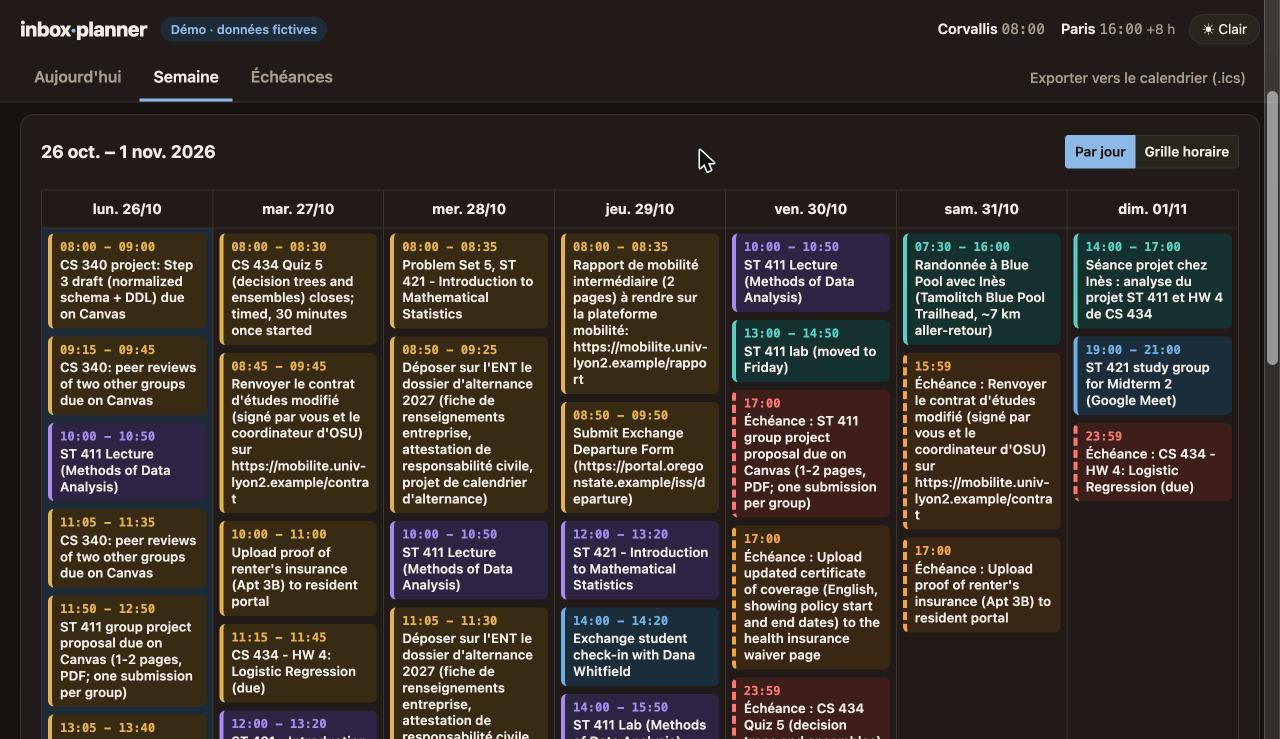
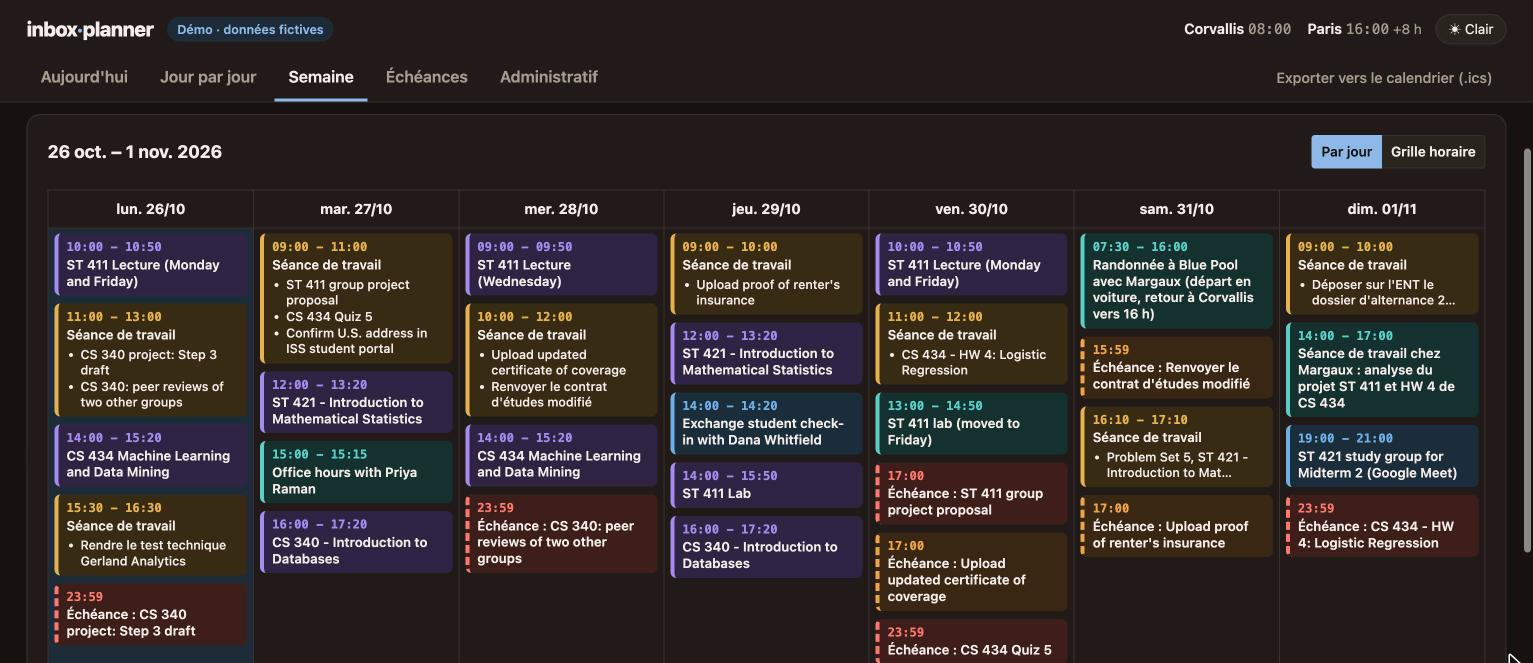
README: new screenshots (day by day, administrative tab) and demo GIF

diff --git a/README.md b/README.md
@@ -6,7 +6,7 @@
 ![Python 3.12](https://img.shields.io/badge/python-3.12-blue)
 ![Licence MIT](https://img.shields.io/badge/licence-MIT-green)
 
-![Démo : l'énergie du jour change le plan, la semaine se recalcule, une réponse est proposée puis relue](docs/images/demo.gif)
+![Démo : l'énergie du jour change le plan, la semaine se recalcule, le détail d'une séance s'ouvre d'un clic, une réponse est proposée puis relue](docs/images/demo.gif)
 
 *Démo sur une boîte mail entièrement fictive. Aucun compte n'est nécessaire.*
 
@@ -33,9 +33,11 @@ Je me suis construit un planner piloté par l'IA. Il lisait mes mails, en tirait
 | **Vue web** | Aujourd'hui avec les prochaines échéances en compte à rebours (auj., demain, J-3), le jour par jour avec la charge de chaque jour, la semaine (FullCalendar, détail au clic), les échéances triées par urgence, l'administratif groupé par organisme. Chaque tâche se coche quand elle est faite. Thème sombre ou clair. Chaque élément est relié à son mail d'origine, dont les liens sont raccourcis et cliquables. |
 | **Export** | Un fichier `.ics` pour Apple Calendar et Google Agenda : fuseaux conservés, cours récurrents, rappel la veille des échéances. |
 
-| Aujourd'hui | Semaine |
+| Aujourd'hui | Jour par jour |
 |---|---|
-| ![Vue du jour](docs/images/aujourdhui.jpg) | ![Vue de la semaine](docs/images/semaine.jpg) |
+| ![Vue du jour](docs/images/aujourdhui.jpg) | ![Jour par jour](docs/images/jours.jpg) |
+| **Semaine** | **Administratif** |
+| ![Vue de la semaine](docs/images/semaine.jpg) | ![Administratif](docs/images/administratif.jpg) |
 | **Échéances** | **Un mail et ce que l'IA en a tiré** |
 | ![Échéances](docs/images/echeances.jpg) | ![Mail](docs/images/mail.jpg) |
 
